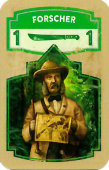
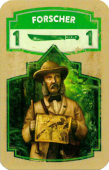
Replace card pictures with better quality images. Rename passive market. Change background to blurry image.

diff --git a/src/app/in-game-screen/marketboard/marketboard.component.html b/src/app/in-game-screen/marketboard/marketboard.component.html
@@ -13,7 +13,7 @@
       </ng-container>
     </div>
     <div id="passive">
-      <div id="gameName"> PASSIVE </div>
+      <div id="gameName"> PASSIVE MARKET </div>
       <ng-container *ngFor="let slot of passiveSlot">
         <ng-container *ngIf="!slot.empty">
           <app-market-slot *ngIf="player" (click)="$event.stopPropagation()" (magnifiyCard2)="setMagnified($event)"

diff --git a/src/app/in-game-screen/marketboard/marketboard.component.css b/src/app/in-game-screen/marketboard/marketboard.component.css
@@ -10,10 +10,10 @@
 #gameName {
   height: 0;
   position: relative;
-  top: -55px;
+  top: -52px;
   text-align: center;
   font-style: italic;
-  font-size: 19px;
+  font-size: 16px;
   font-weight: normal;
   color: #fcf6e4;
   /*padding: 5px 10px;*/

diff --git a/src/app/main-menu/main-menu.component.css b/src/app/main-menu/main-menu.component.css
@@ -8,7 +8,7 @@
 
 #MainMenuScreen{
   position: absolute;
-  background: url('./../../assets/GUI_MainMenu/ElDoradoBackground3oil.jpg');
+  background: url('./../../assets/GUI_MainMenu/MainBackground.jpg');
   width: 100%;
   height: 100%;
 }
